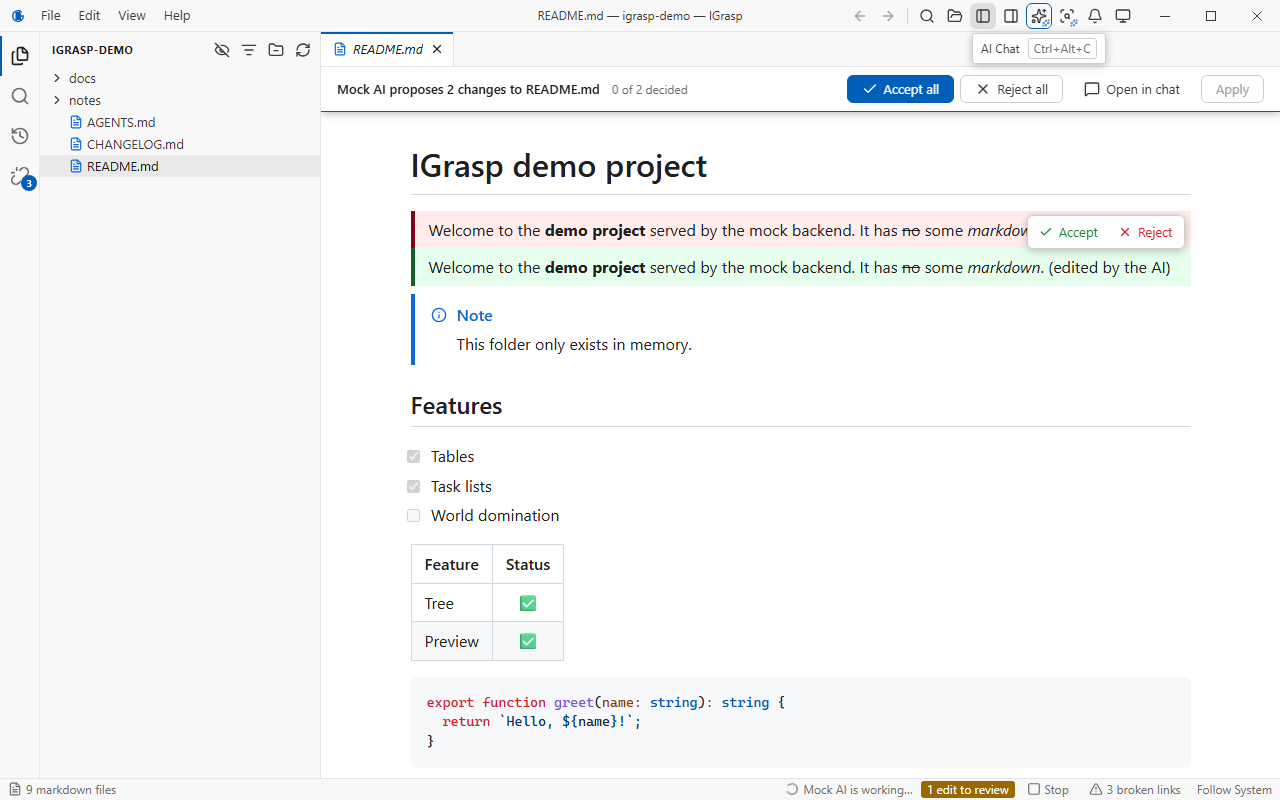
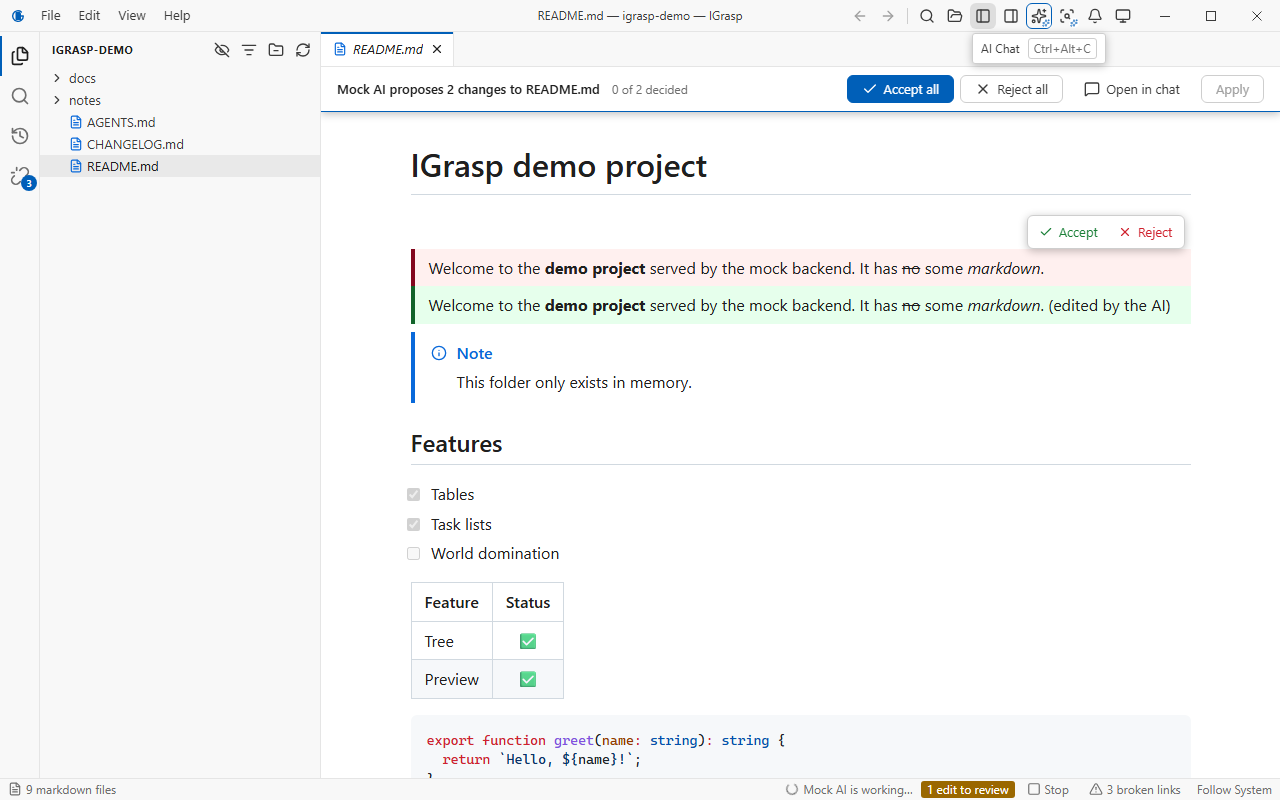
docs: accessibility behaviour of the AI features

Changed region(s): [[0.3125, 0.2812, 0.9375, 0.7812], [0.3125, 0.8125, 0.625, 0.9688], [0.3125, 0.75, 0.375, 0.8125]]

diff --git a/docs/features/ai-chat.md b/docs/features/ai-chat.md
@@ -42,6 +42,10 @@ provider, with the input the app sends back.
   nothing running) it closes the panel and the focus returns to the AI Chat button. Closing the
   panel never stops an answer: the status bar shows it with **Stop**, and a badge when a
   permission waits.
+- **Screen readers**: events of an operation (a tool call, a permission request, the end of an
+  answer) reach assistive technology through one polite live region; streamed text is not read
+  as it arrives, and the usage line is not a live region of its own. The panel comes right after
+  the toolbar in the Tab order. When a card is answered, the focus goes to the message box.
 - **New conversation** (+, `Ctrl+Alt+N`) saves the conversation in the history and starts an
   empty one; otherwise every message continues the same conversation (the provider's resume id),
   even after a stop or a crash.
@@ -97,7 +101,7 @@ A markdown edit inside the folder opens the file's tab in **review mode**: the r
 document with the removed and added blocks in place, Accept / Reject per change, and a review
 bar (Accept all, Reject all, Open in chat, Apply). Only the accepted changes are written. The
 chat shows an Edit card with **Review in preview**; with the chat closed, the status bar item
-("1 edit to review") leads to the review. The details are in
+("1 edit to review") leads to the review; both focus the first undecided change. The details are in
 [markdown-preview.md](markdown-preview.md#review-mode-an-ai-edit); the diff itself is
 [ADR 0017](../decisions/0017-rendered-markdown-diff-at-block-level.md). Edits of other files, of
 files outside the folder, of documents too large to render, or whose text is no longer in the
@@ -110,7 +114,8 @@ file keep the line-diff card in the chat.
   it never calls the provider.
 - **Select**: a crosshair covers the tab's scroll area. Drag a rectangle (at least 24 × 24 px),
   or use the keyboard: arrows move a rectangle from the centre, `Shift+arrows` resize it, `Enter`
-  captures, `Escape` cancels.
+  captures, `Escape` cancels (the focus returns where it was). The size of the selection is
+  announced as it changes.
 - **Lines**: in a markdown tab every block with a `data-line` marker that the rectangle touches
   gives the range, from the first block's start line to the line before the next block (blank
   separator lines trimmed); in a code tab, the rendered rows. A selection over an image only

diff --git a/docs/features/keyboard.md b/docs/features/keyboard.md
@@ -56,7 +56,7 @@ Reserved for upcoming features (not bound yet, so they never need to be re-learn
 ## Moving around
 
 - **Tab order** follows the screen: "Skip to document" link, menu bar, title-bar toolbar,
-  window controls, activity bar, the active sidebar view (its header actions, its boxes, then
+  the AI chat panel when open, window controls, activity bar, the active sidebar view (its header actions, its boxes, then
   its tree or list), sidebar resizer (arrow keys resize it), tabs, the document, the right
   panel resizer and the right panel (Outline, then Backlinks), then the status bar items.
 - **Activity bar**: one tab stop; ↑ / ↓ move between views, Enter or Space opens one.
@@ -72,12 +72,17 @@ Reserved for upcoming features (not bound yet, so they never need to be re-learn
   focusable to scroll them horizontally. Mermaid diagrams have their own keys (`+`, `-`, `F`, `0`,
   Enter).
 - **AI chat panel**: a floating dialog (`aria-modal="false"`), movable and resizable from the
-  keyboard (above); the focus returns to the AI Chat button when it closes. The transcript is a
-  polite live region.
+  keyboard (above); the focus returns to the AI Chat button when it closes. AI events are announced
+  through one polite live region (streamed text is not read as it arrives). When a card is
+  answered the focus goes to the message box.
 - **Review mode**: each change is a focusable group labelled "Change 2 of 3: replaced paragraph"
-  with Accept, Reject and Undo buttons, and a polite live region announces each decision.
+  with Accept, Reject and Undo buttons, and a polite live region announces each decision. "Review in preview" and the status bar
+  item focus the first undecided change; once the review is answered the focus goes to the
+  document.
 - **Region selection**: operable without a mouse (above), with its instruction as the overlay's
-  accessible name.
+  accessible name
+  and the selection size announced while it is resized; cancelling returns the focus where it
+  was.
 - **Menus and dialogs** (radix-ui) trap focus, close with Esc and return focus where it was.
 
 ## Accessibility checklist

diff --git a/docs/features/markdown-preview.md b/docs/features/markdown-preview.md
@@ -53,17 +53,19 @@ diff module and its limits are described in
 
 - **Change units**: one per hunk of an `Edit` / `MultiEdit` (hunks in the same paragraph form
   one unit, "2 edits in this paragraph"), one per changed block group of a `Write`. Each unit
-  has **Accept** / **Reject** at its top right, then its state with **Undo**. A focused unit
-  (`Tab`) takes `A` / `R`; a live region announces each decision.
+  has **Accept** / **Reject** on its own row above it (never over the text), then its state with
+  **Undo**. A decided unit shows the version that was not kept without tint, with a dashed bar
+  and muted text. A focused unit (`Tab`) takes `A` / `R`; a live region announces each decision.
 - **Review bar**: "Claude proposes 3 changes to docs/a.md" (the provider's name), the count decided, **Accept all**
   (accepts the undecided units and answers, `Alt+Shift+A`), **Reject all** (answers at once,
   `Alt+Shift+R`), **Open in chat**, and **Apply** once every unit is decided and one is accepted.
 - **Answer**: the accepted hunks (or, for a `Write`, the content composed from the accepted
   blocks) go to the provider, which writes the file; nothing accepted is a rejection. The tab
-  leaves review mode at once and the live reload shows the written file; the chat says "Applied
+  leaves review mode at once, the focus goes to the document, and the live reload shows the written file; the chat says "Applied
   2 of 3 changes to docs/a.md". A rejected new file closes its tab.
 - The chat shows an **Edit card** with **Review in preview**, Accept all and Reject all; with the
-  chat closed, the status bar item ("1 edit to review") leads to the review.
+  chat closed, the status bar item ("1 edit to review") leads to the review. Both focus the first undecided
+  change.
 - **Fallbacks**: an edit of another file, outside the folder, of a document too large to render,
   or whose text is no longer in the file is shown as a line diff in the chat, accepted or
   rejected as a whole.

diff --git a/CHANGELOG.md b/CHANGELOG.md
@@ -84,6 +84,12 @@ through your installed `claude` CLI is the first provider) and spends tokens onl
   Mermaid visual editor move to Phases 6, 7 and 8. The quiz and tutorials are grounded in the
   whole project, not only its markdown files
   ([ADR 0016](docs/decisions/0016-learning-features-grounded-in-the-project.md)).
+- Accessibility of the AI features: events reach screen readers through one polite live region
+  (streamed text is not read as it arrives); the chat panel follows the toolbar in the Tab
+  order; focus moves to the first undecided change when a review opens, to the document when it
+  is answered, to the message box when a card is answered, and back where it was when a capture
+  is cancelled; the keyboard capture announces the selection size; the review toolbar sits on
+  its own row above each change and decided changes show the version not kept dashed and muted.
 - Sessions also remember the AI panel (open, position, size); sessions saved by 0.2.0 load
   unchanged.
 - The preview keeps source line markers (`data-line`) on lists and GitHub alert blocks.

diff --git a/docs/features/themes-and-settings.md b/docs/features/themes-and-settings.md
@@ -19,7 +19,7 @@ CSS variables, so switching themes never re-renders documents; Mermaid diagrams 
 once with the matching diagram theme.
 
 The AI review adds four tokens, `--diff-added-bg`, `--diff-added-fg`, `--diff-removed-bg` and
-`--diff-removed-fg`, defined in each theme and used by the rendered diff of a proposed edit and by
+`--diff-removed-fg`, defined in each theme (Light removed background `#fff0ef`) and used by the rendered diff of a proposed edit and by
 the line-diff cards. Colour is not the only cue: in High Contrast, removed blocks get a dashed
 border and added blocks a solid one, and the flash after a decision is off under
 `prefers-reduced-motion`. Capture selections and screenshots outline the region with the accent
